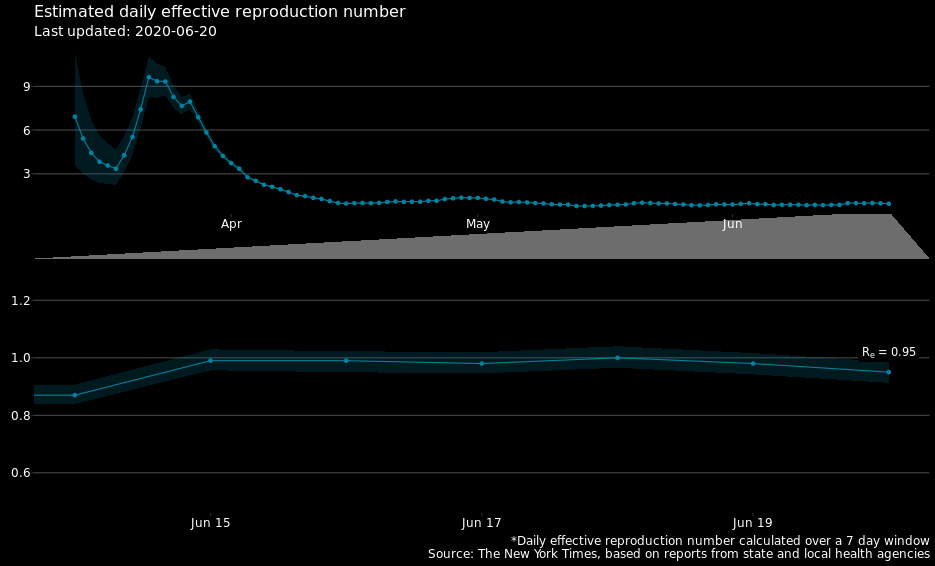
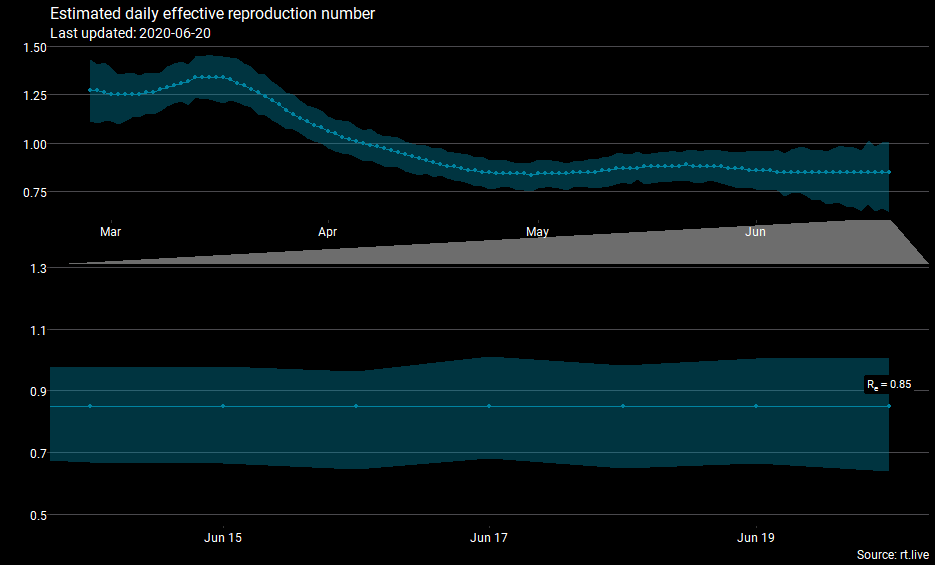
change my R_e estimate to the rt.live methodology

diff --git a/NEWS.md b/NEWS.md
@@ -57,4 +57,12 @@
     longer exponential so the log scaling isn’t really needed and it was
     bunching up the data points. At this point in the pandemic, what
     happens after the reopening stages is salient, so I’ve started the
-    data at the point a couple weeks before stage 2.
+    data at the point a couple weeks before stage 2.  
+
+  - 2020-06-21 - Switched to the rt.live model for R<sub>e</sub>. I
+    haven’t been confortable with estimate I’ve been using for awhile.
+    Their estimate along with their uncertainty range look more
+    reasonable than the one I was using before. They haven’t published
+    their code yet, so I haven’t been able to dig into it too much. But
+    the [faq](https://rt.live/faq) gives some hints to what they’re
+    doing, and it seems sound.

diff --git a/README.md b/README.md
@@ -158,8 +158,8 @@ that’s available.
     virus is decreasing. Estimates *slightly larger* than 1 indicate a
     slow spread of the virus. Estimates of *2 or greater* mean the virus
     is spreading rapidly.  
-  - R<sub>e</sub> is estimated over a 7-day window, and the shaded area
-    shows the 95% credible interval.
+  - The shaded area shows the 80% credible interval where the true value
+    is likely to be.
   - Further details on this metric can be found at a research
     [site](https://cbdrh.github.io/ozcoviz/#national-level-r_t) set-up
     by South Western Sydney Clinical School and the Centre for Big Data
